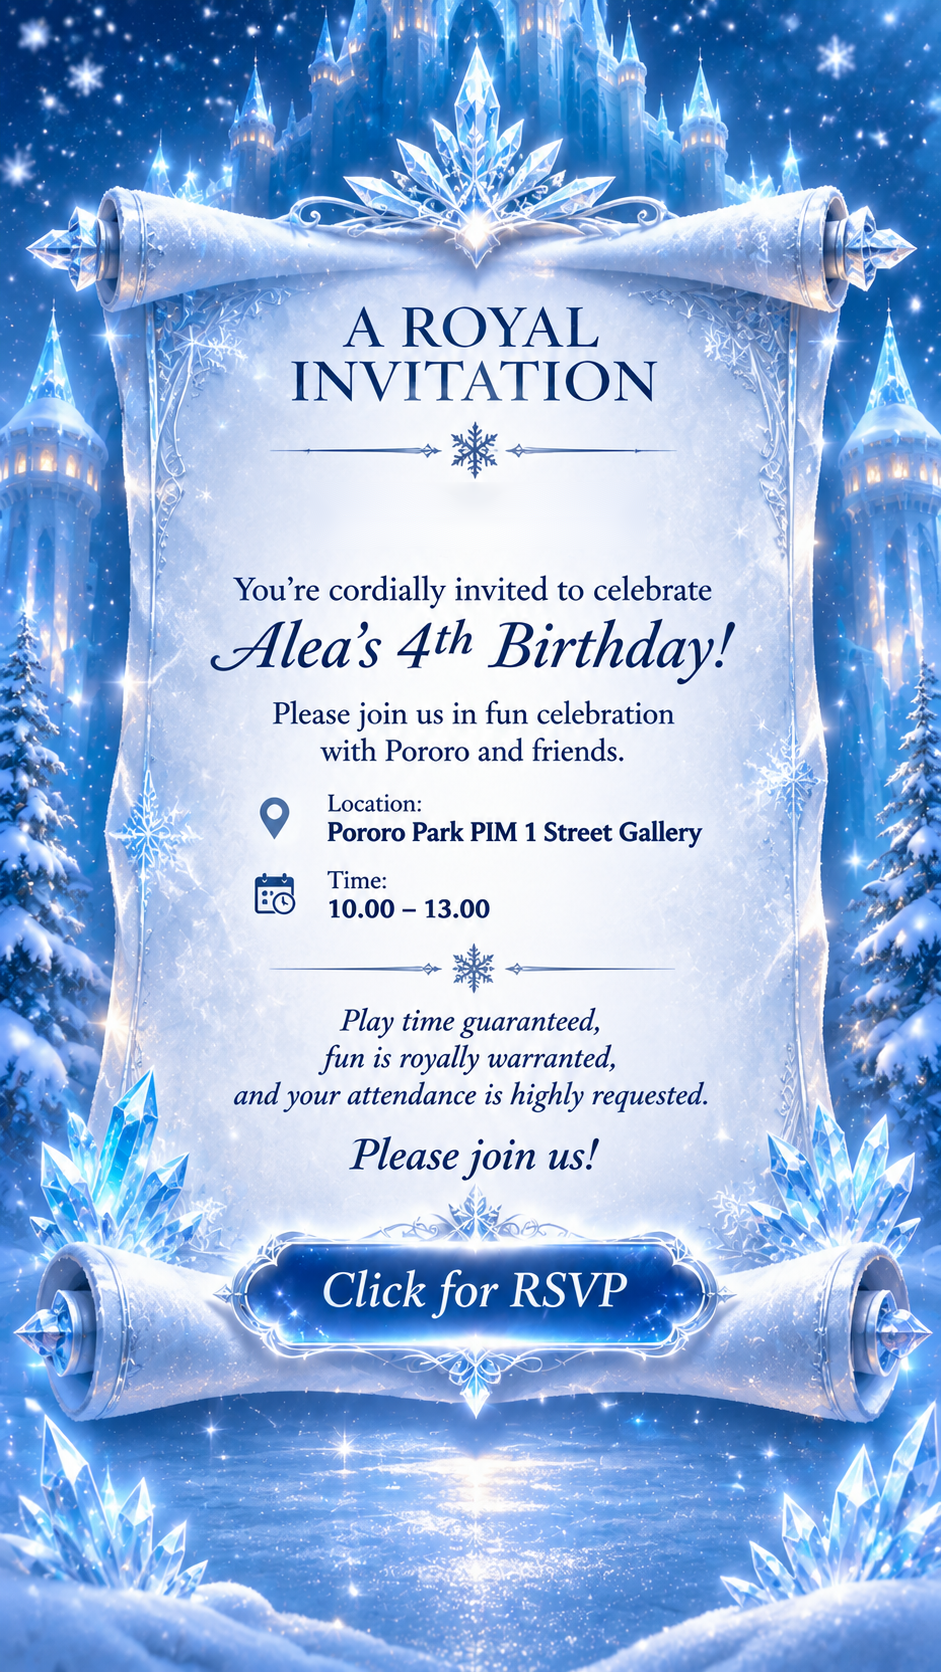
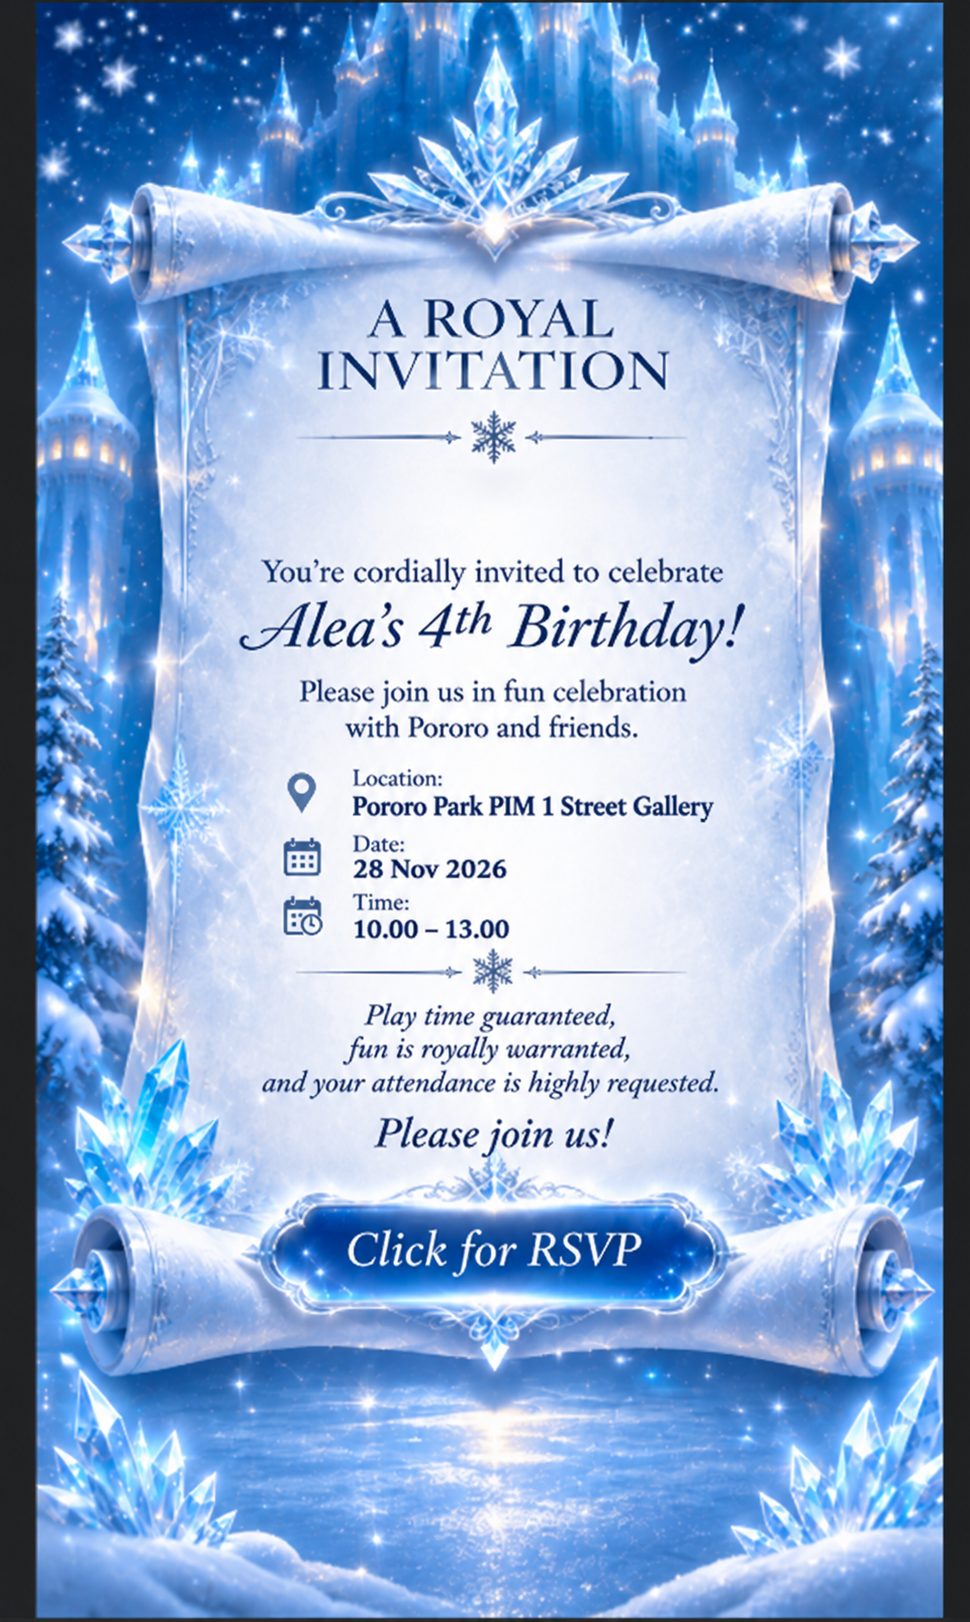
Add files via upload

diff --git a/config.js b/config.js
@@ -1,5 +1,5 @@
 // After deploying Code.gs as a Google Apps Script Web App, paste the /exec URL below.
 window.ALEA_CONFIG = {
-  appsScriptUrl: "",
+  appsScriptUrl: "https://script.google.com/macros/s/AKfycbxZjSoleaBwgySE5Ol1YTkGM7NRWgqyv4HhcYe28_viav3GHpM-VIlk3Z47W7sR87k4uw/exec",
   eventDate: "28 Nov 2026"
 };
